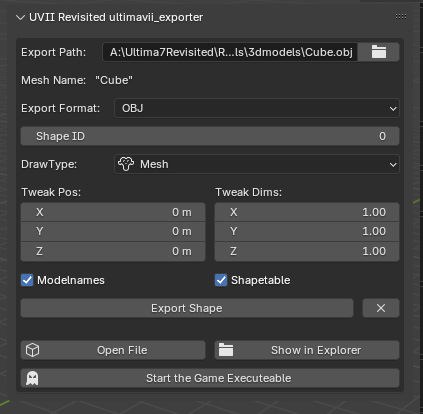
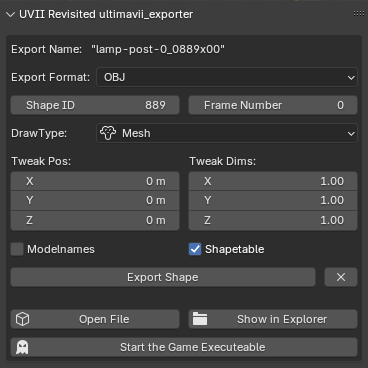
added new naming convention, fixed shapetable script bug

diff --git a/addon/ultimavii_exporter.py b/addon/ultimavii_exporter.py
@@ -4,12 +4,15 @@
 # Version
 # 0.1:
 # - First Version
+# 0.2:
+# - Adding new name convention
+# - Fixed shapetable script bug
 # --------------------------------------------------------------------------------
 
 bl_info = {
     "name": "Ultima VII Revisited Exporter",
     "author": "Oliver Reischl <clawjelly@gmail.net>",
-    "version": (1, 0),
+    "version": (0, 2),
     "blender": (4, 40, 0),
     "description": "Allows to export meshes directly into the game.",
 }
@@ -32,6 +35,9 @@ class ShapeType(IntEnum):
     CUBOID = 1
     FLAT = 2
     MESH = 3
+    CHARACTER = 4
+    POINTER = 5
+    DONTDRAW = 6
 
 class ShapeEntry:
     """Represents an entry in the shape table"""
@@ -43,9 +49,11 @@ class ShapeEntry:
         self.scale = Vector((1,1,1))
         self.position = Vector((0,0,0))
         self.filepath = ""
+        self.script="Default"
 
     # Examples:
-    # 889 0 0 0  8  8 0  8  8 33  8 0 33  8 3 1 0.9 0.7 0.1 0.2 0.3 0 1 2 2 3 3 1 Models/3dmodels/lamp-post-0.obj 1 0 889 0  
+    # 889 0 0 0 8 8 0 8 8 33 8 0 33 8 0 1 1 1 0 0 0 0 1 2 2 3 3 1 Models/3dmodels/zzwrongcube.obj 1 0 889 0 func_0379 
+    # 889 1 0 0 8 8 0 8 8 33 8 0 33 8 0 1 1 1 0 0 0 0 1 2 2 3 3 1 Models/3dmodels/zzwrongcube.obj 1 0 889 1 func_0379  
     # 889 0 0 0  8  8 0  8  8 33  8 0 33  8 3 1   1   1   0   0   0 0 1 2 2 3 3 1 Models/3dmodels/lamp-post-0.obj 1 0 889 0 
     # 889 1 0 0  8  8 0  8  8 33  8 0 33  8 0 1   1   1   0   0   0 0 1 2 2 3 3 1 Models/3dmodels/zzwrongcube.obj 1 0 889 1
     # 890 0 1 1 43 22 1 23 41  8 44 1  8 20 1 1   1   1   0   0   0 0 0 2 2 3 3 1 Models/3dmodels/zzwrongcube.obj 1 0 890 0 
@@ -63,6 +71,7 @@ class ShapeEntry:
         line += " ".join([f"{v}" for v in self.vals_02])
         line += f" {self.filepath} "
         line += " ".join([f"{v}" for v in self.vals_03])
+        line += f" {self.script}"
         line += " \n"
         return line
 
@@ -78,7 +87,12 @@ class ShapeEntry:
         se.position = Vector( (float(values[18]),float(values[19]), float(values[20]) ) )
         se.vals_02 = [int(v) for v in values[21:28]] # Todo: Find out, what these vals are
         se.filepath = values[28]
-        se.vals_03 = [int(v) for v in values[29:]] # Todo: Find out, what these vals are
+        se.vals_03 = [int(v) for v in values[29:33]] # Todo: Find out, what these vals are
+        try:
+            se.script = values[33]
+        except Exception as e:
+            # print(f"WARNING: No script found for shape {values[0]}!")
+            se.script = "Default"
         return se
 
 
@@ -110,6 +124,15 @@ class ShapeTable:
 # --------------------------------------------------------------------------------
 # Utilities
 # --------------------------------------------------------------------------------
+
+def model_to_filename(obj):
+    """ Generates a standardized obj name """
+    # <object name>_<shape number>x<frame number>
+    return f"{obj.name.lower()}_{obj.uvii_export_settings.shape_id:004d}x{obj.uvii_export_settings.frame:002d}"
+
+def full_export_filepath(obj):
+    addon_prefs = bpy.context.preferences.addons["ultimavii_exporter"].preferences
+    return Path(addon_prefs.game_path) / "Models" / "3dmodels" / (model_to_filename(obj)+obj.uvii_export_settings.format_suffix())
 
 def add_to_modelnames(objname):
     """Writes the model name into the modelnames.txt file"""
@@ -201,8 +224,8 @@ class SCRIPTS_AP_uvii_settings(AddonPreferences):
 
     write_modelnames: bpy.props.BoolProperty(
         name="Modelnames",
-        default=True,
-        description="Write the object data to the modelnames.txt"
+        default=False,
+        description="Write the object data to the modelnames.txt. DEPRECATED - Now loads every model."
     )
 
     def draw(self, context):
@@ -222,7 +245,7 @@ class SCRIPTS_PG_uvii_object_settings(PropertyGroup):
 
     export_path: bpy.props.StringProperty(
         name="Export Path",
-        description="Where the file is exported to",
+        description="Where the file is exported to. DEPRECATED, is now generated from the object name.",
         default="",
         # subtype="FILE_PATH",
         subtype="NONE",
@@ -245,6 +268,12 @@ class SCRIPTS_PG_uvii_object_settings(PropertyGroup):
         name="Shape ID",
         default=0,
         description="The ID of the shape. Somewhere from 150 to 1023"
+    )
+
+    frame: bpy.props.IntProperty(
+        name="Frame Number",
+        default=0,
+        description="The animation frame. If not animated, set it to 0."
     )
 
     count: bpy.props.IntProperty(
@@ -282,6 +311,13 @@ class SCRIPTS_PG_uvii_object_settings(PropertyGroup):
             ("3", "Mesh", "A fully meshed object.", "MONKEY", 3)
             ]
         )
+
+    script_name: bpy.props.StringProperty(
+        name="Script Name",
+        description="My String.",
+        default="Default",
+        maxlen=0
+    )
 
     def format_suffix(self):
         if self.export_format == "OBJ":
@@ -404,6 +440,8 @@ class SCRIPTS_OT_uvii_export_asset(bpy.types.Operator):
         # need to make sure active object is selected, otherwise exporting empty file!
         obj.select_set(True)        
         settings = obj.uvii_export_settings
+        export_path = full_export_filepath(obj)
+        settings.export_path = str(export_path)
 
         # export shape mesh
         bpy.ops.wm.obj_export(
@@ -454,7 +492,7 @@ class SCRIPTS_OT_uvii_export_asset(bpy.types.Operator):
                 print(f"Did not find {settings.shape_id} in shapetable.dat!")
 
         bpy.context.window_manager.popup_menu(
-            lambda self, ctx: ( [self.layout.label(text=x) for x in [f"Successfully exported {obj.name}"]] ),
+            lambda self, ctx: ( [self.layout.label(text=x) for x in [f"Successfully exported '{full_export_filepath(obj).name}"]] ),
             title="Info", 
             icon='INFO')
 
@@ -526,7 +564,7 @@ class SCRIPTS_PT_uvii_user_interface(bpy.types.Panel):
     bl_space_type="VIEW_3D"
     bl_region_type="UI"
     bl_category="UVII Revisited"
-    bl_label="UVII Revisited ultimavii_exporter"
+    bl_label="UVII Revisited Exporter"
 
     def draw(self, context):
         box = self.layout.box()
@@ -555,16 +593,18 @@ class SCRIPTS_PT_uvii_user_interface(bpy.types.Panel):
 
         settings = context.active_object.uvii_export_settings
 
-        split = box.split(factor=.9, align=True)
-        split.prop(settings, "export_path")
-        split.operator("scripts.uvii_select_filepath", text="", icon="FILE_FOLDER")
+        # split = box.split(factor=.9, align=True)
+        # split.prop(settings, "export_path")
+        # split.operator("scripts.uvii_select_filepath", text="", icon="FILE_FOLDER")
         if settings.export_path!="":
             try:
-                box.label(text=f"Mesh Name:   \"{settings.mesh_name()}\"")
+                box.label(text=f"Export Name:   \"{model_to_filename(context.active_object)}\"")
             except Exception as e:
                 box.label(text="Not a viable path.")
         box.prop(settings, "export_format")
-        box.prop(settings, "shape_id")
+        split = box.split()
+        split.prop(settings, "shape_id")
+        split.prop(settings, "frame")
         # box.prop(settings, "count")
         box.prop(settings, "shape_type")
         row = box.split()
@@ -618,17 +658,23 @@ if __name__ == "__main__":
     base_gamepath = Path(r"A:\Ultima7Revisited\Redist")
 
     # lines = [
-    #   "889 0 0 0 8 8 0 8 8 33 8 0 33 8 3 1 0.9 0.7 0.1 0.2 0.3 0 1 2 2 3 3 1 Models/3dmodels/lamp-post-0.obj 1 0 889 0 ",
-    #   "890 0 1 1 43 22 1 23 41 8 44 1 8 20 1 1 1 1 0 0 0 0 0 2 2 3 3 1 Models/3dmodels/zzwrongcube.obj 1 0 890 0 ",
-    #   "891 0 0 0 32 32 0 32 32 1 32 0 1 32 2 1 1 1 0 0 0 0 1 2 2 3 3 1 Models/3dmodels/zzwrongcube.obj 1 0 891 0 ",
-    #   "892 0 0 0 1 1 0 1 1 0 1 0 0 1 2 1 1 1 0 0 0 0 1 2 2 3 3 1 Models/3dmodels/zzwrongcube.obj 1 0 892 0 "
+    #     "889 0 0 0 8 8 0 8 8 33 8 0 33 8 0 1 1 1 0 0 0 0 1 2 2 3 3 1 Models/3dmodels/zzwrongcube.obj 1 0 889 0 func_0379 ",
+    #     "889 1 0 0 8 8 0 8 8 33 8 0 33 8 0 1 1 1 0 0 0 0 1 2 2 3 3 1 Models/3dmodels/zzwrongcube.obj 1 0 889 1 func_0379 ",
+    #     "889 2 0 0 8 8 0 8 8 31 8 0 32 8 0 1 1 1 0 0 0 0 1 2 2 3 3 1 Models/3dmodels/zzwrongcube.obj 1 0 889 2 func_0379 ",
+    #     "889 3 0 0 8 8 0 8 8 31 8 0 32 8 0 1 1 1 0 0 0 0 1 2 2 3 3 1 Models/3dmodels/zzwrongcube.obj 1 0 889 3 default "
     # ]
     # sobjs = [ShapeEntry.from_line(sobj) for sobj in lines]
+    # i = 0 
+    # for so in sobjs:
+    #     print(so.vals_03)
+    #     print(so.script)
+    #     print(lines[i])
+    #     i+=1
+    #     print(so.to_line())
 
 
     # shapetable = ShapeTable()
     # shapetable.load(base_gamepath / "data" / "shapetable.dat")
     # print(f"Found {len(shapetable.shapes)} shape entries.")
-    # print(shapetable.shapes[151][0].to_line())
+    # print(shapetable.shapes[889][0].to_line())
     # shapetable.save(base_gamepath / "data" / "shapetable.new")
-

diff --git a/README.md b/README.md
@@ -1,4 +1,23 @@
 # Ultima VII Revisited Blender Exporter
 This project aims to ease the export of mesh objects into the [Ultima VII: Revisited](https://github.com/ViridianGames/U7Revisited) project.
 
+
+
 ![UVIIRV_Blender_Exporter](img/UVIIRV_Blender_Exporter.PNG)
+
+## Explanation
+
+- **Export Name:** This shows the filename formatted from the data according to the standards set out by ViridianGames.
+- **Export Format:** OBJ or GLTF. At the moment only OBJ is supported.
+- **Shape ID:** The number of the shape. The engine references that.
+- **Frame Number:** If you have more than one frame. I haven't tested that one, so leave at 0 for now.
+- **DrawType:** Leave this at mesh.
+- **Tweak Pos/Tweak Dims:** Use this to change the relative offset/scale
+- **Modelnames:** *Deprecated!* Write filename into the `modelnames.txt` file.
+- **Shapetable:** Write shape data into `shapetable.dat` file. Necessary to see the object in game.
+- **Export Shape:** Exports the object to the models folder and adjusts necessary data files (like the shapetable).
+- **X:** Delete asset data.
+- **Open File:** Opens the exported model file in the default model viewing app.
+- **Show in Explorer:** Opens a file browser with the file (Windows only atm).
+- **Start the Game Executeable:** Starts the game.
+
